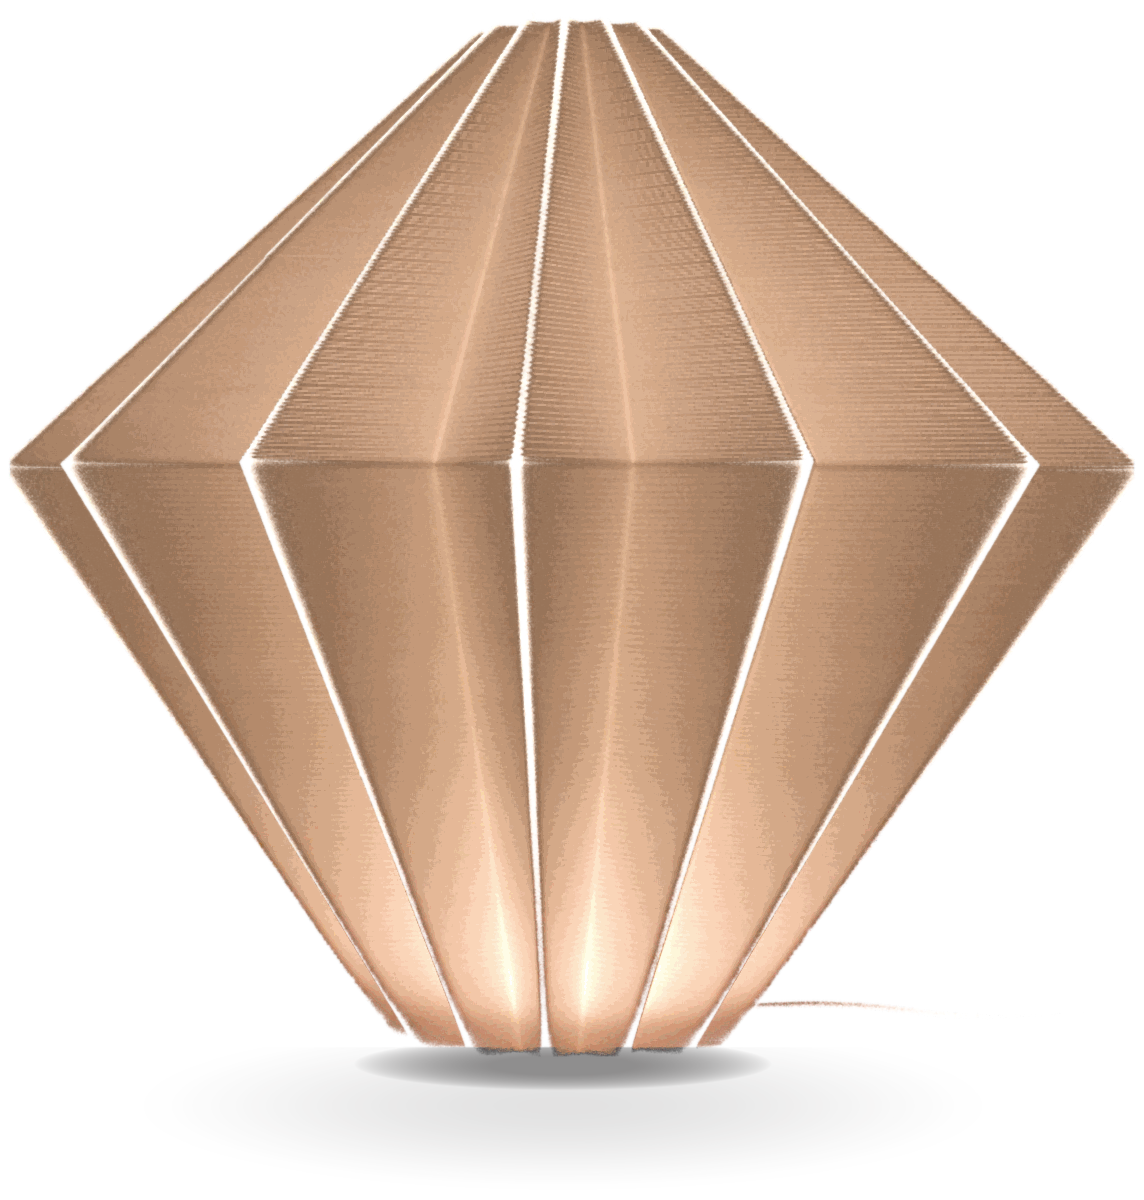
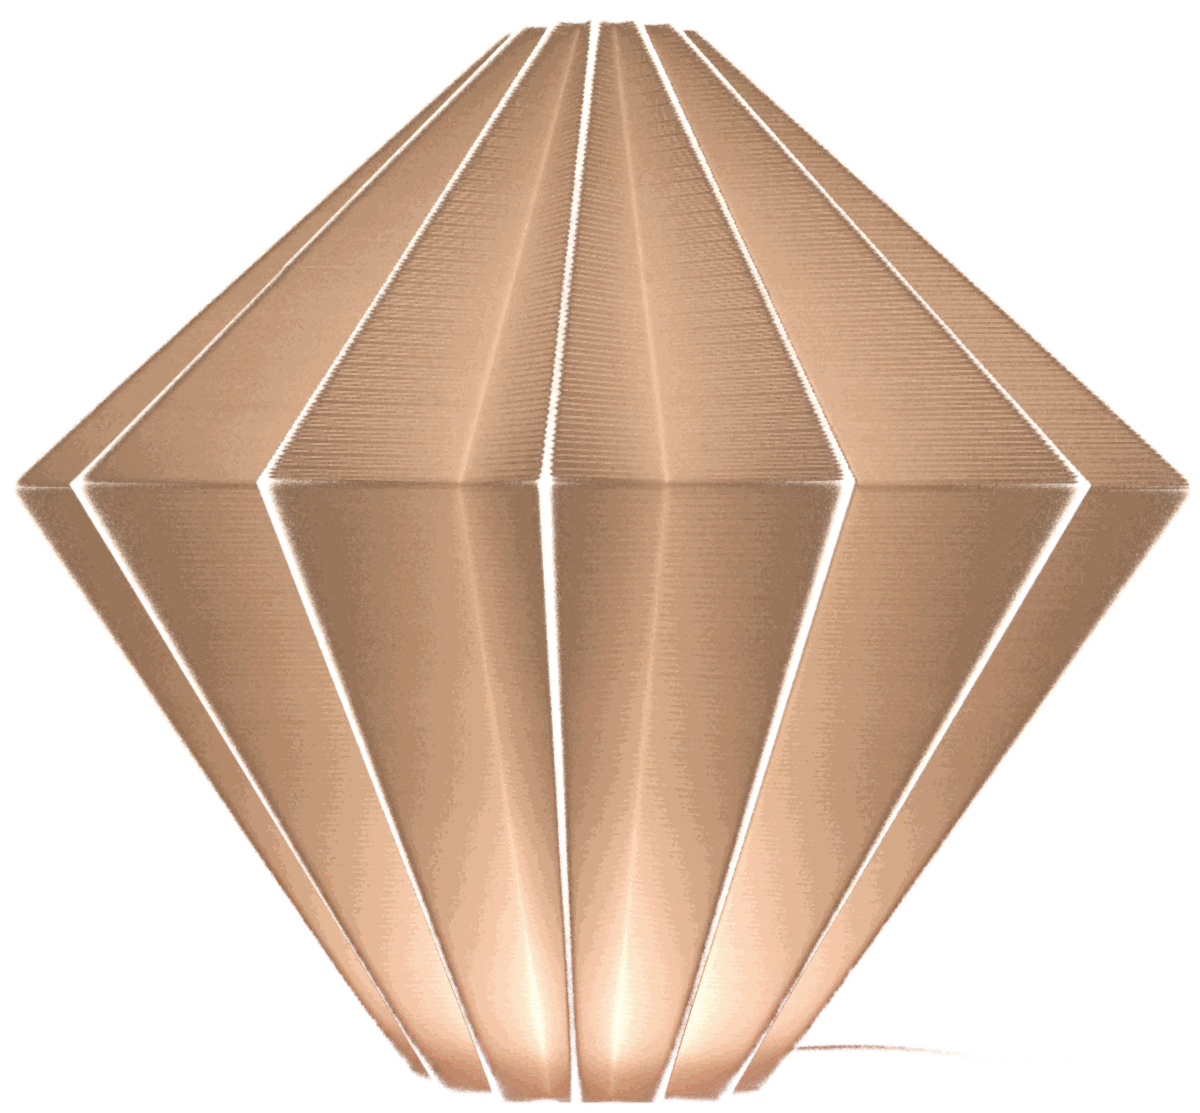
Starlight: foto senza ombra dipinta, cavo che esce dal riquadro, sera illuminata
Tolta l'ombra disegnata sotto la foto: non combacia con la luce dello scatto (la lampada illumina il piano da sotto) e incollava ancora di piu' l'oggetto. Cavo da 2 a 4.4 raggi (~67 cm): esce dal campo visivo invece di finire tagliato. Fondo notturno a due strati con bagliore ambra sotto il corpo, emissione ed esposizione da notte alzate.

Changed region(s): [[0.0, 0.0, 1.0, 1.0]]

diff --git a/prodotto-starlight.html b/prodotto-starlight.html
@@ -108,8 +108,20 @@
      il nero pieno spegne le ombre e fa sembrare il modello ritagliato, mentre
      un fondo appena chiaro lascia leggere il volume e il PLA resta caldo. */
   .pv-vista{ transition:background .5s ease; }
+  /* Due strati, e l'ordine conta: sopra il bagliore della lampada, sotto la
+     stanza. Una lampada accesa non illumina solo se stessa — se il fondo resta
+     uniforme sembra un fotomontaggio su cartoncino nero. Il bagliore e' molto
+     largo e molto tenue, centrato poco sotto il corpo (li' sta la lampadina):
+     e' la luce che si perde nell'ambiente, non un alone attorno all'oggetto.
+     Colore ambra, lo stesso dell'emissione, altrimenti la luce "esce" di un
+     colore e "arriva" di un altro. */
   #vista-3d.notte{
-    background:radial-gradient(118% 88% at 50% 42%, #3a383e 0%, #2f2d33 52%, #27252a 100%);
+    background:
+      radial-gradient(58% 46% at 50% 63%, rgba(255,178,104,.34) 0%,
+                                          rgba(255,164,92,.15) 42%,
+                                          rgba(255,158,88,.04) 70%,
+                                          rgba(255,158,88,0) 100%),
+      radial-gradient(118% 88% at 50% 42%, #423f46 0%, #37343b 52%, #2d2a31 100%);
   }
   #vista-3d.notte .pv-hint{ color:rgba(255,255,255,.52); }
   #vista-3d.notte .pv-caricamento{ background:#2f2d33; color:rgba(255,255,255,.55); }
@@ -847,7 +859,7 @@
        sta la lampadina, meno sulla punta), qui si alza o si azzera l'intensita'.
        Anche l'ombra si alleggerisce: un oggetto che emette luce non puo' avere
        la stessa ombra dura di uno spento. */
-    var EMISSIONE = [1.0, 0.66, 0.34];
+    var EMISSIONE = [1.0, 0.78, 0.52];
 
     function accendi() {
       /* L'emissione si puo' toccare solo a modello caricato; il resto — fondo,
@@ -865,7 +877,7 @@
          paralume dall'esterno e l'emissione non si legge — la lampada sembra
          accesa in pieno sole. Abbassandola resta il gradiente interno. */
       v3d.classList.toggle('notte', !!stato.acceso);
-      mv.setAttribute('exposure', stato.acceso ? '0.62' : '1.00');
+      mv.setAttribute('exposure', stato.acceso ? '0.86' : '1.00');
       thumbPallino.style.background = stato.acceso ? '#f0b877' : '#cfcdc8';
     }
 
